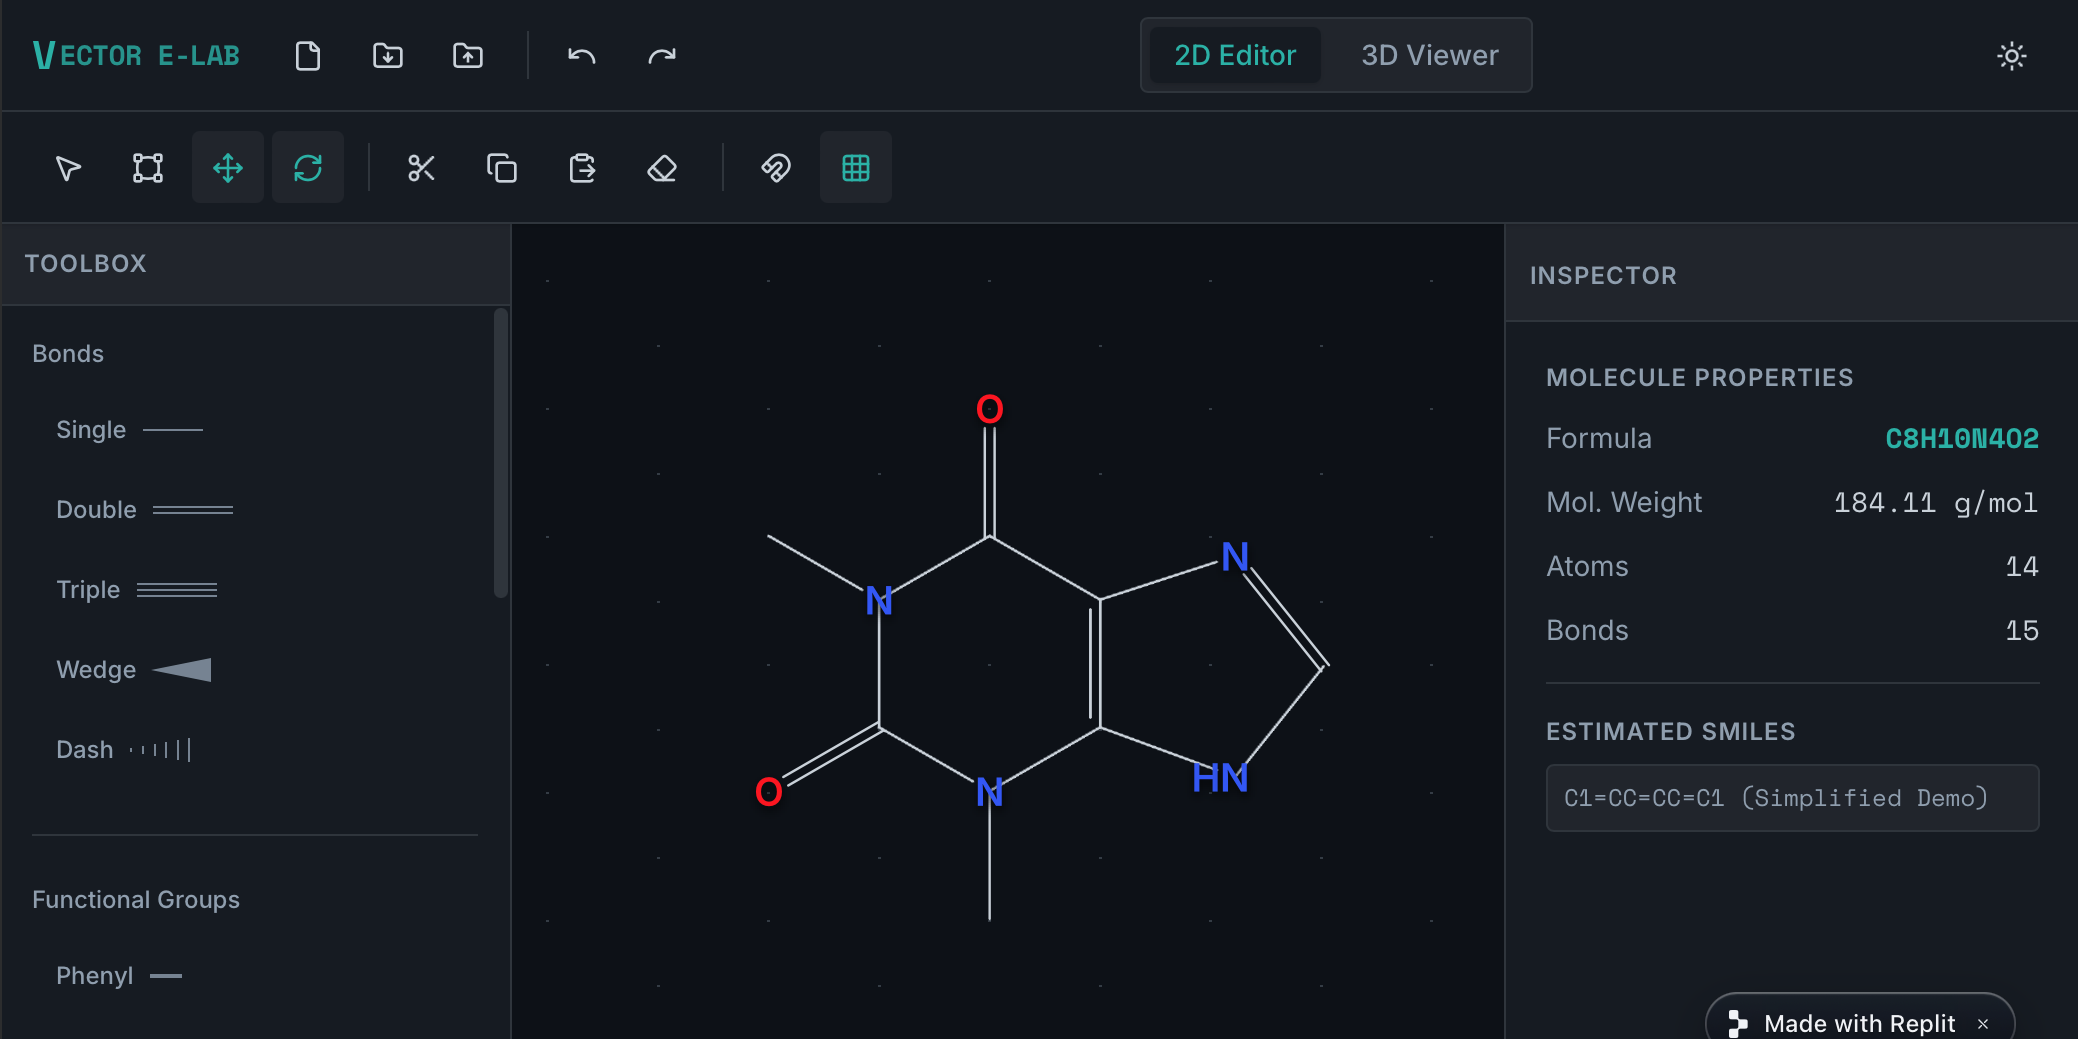
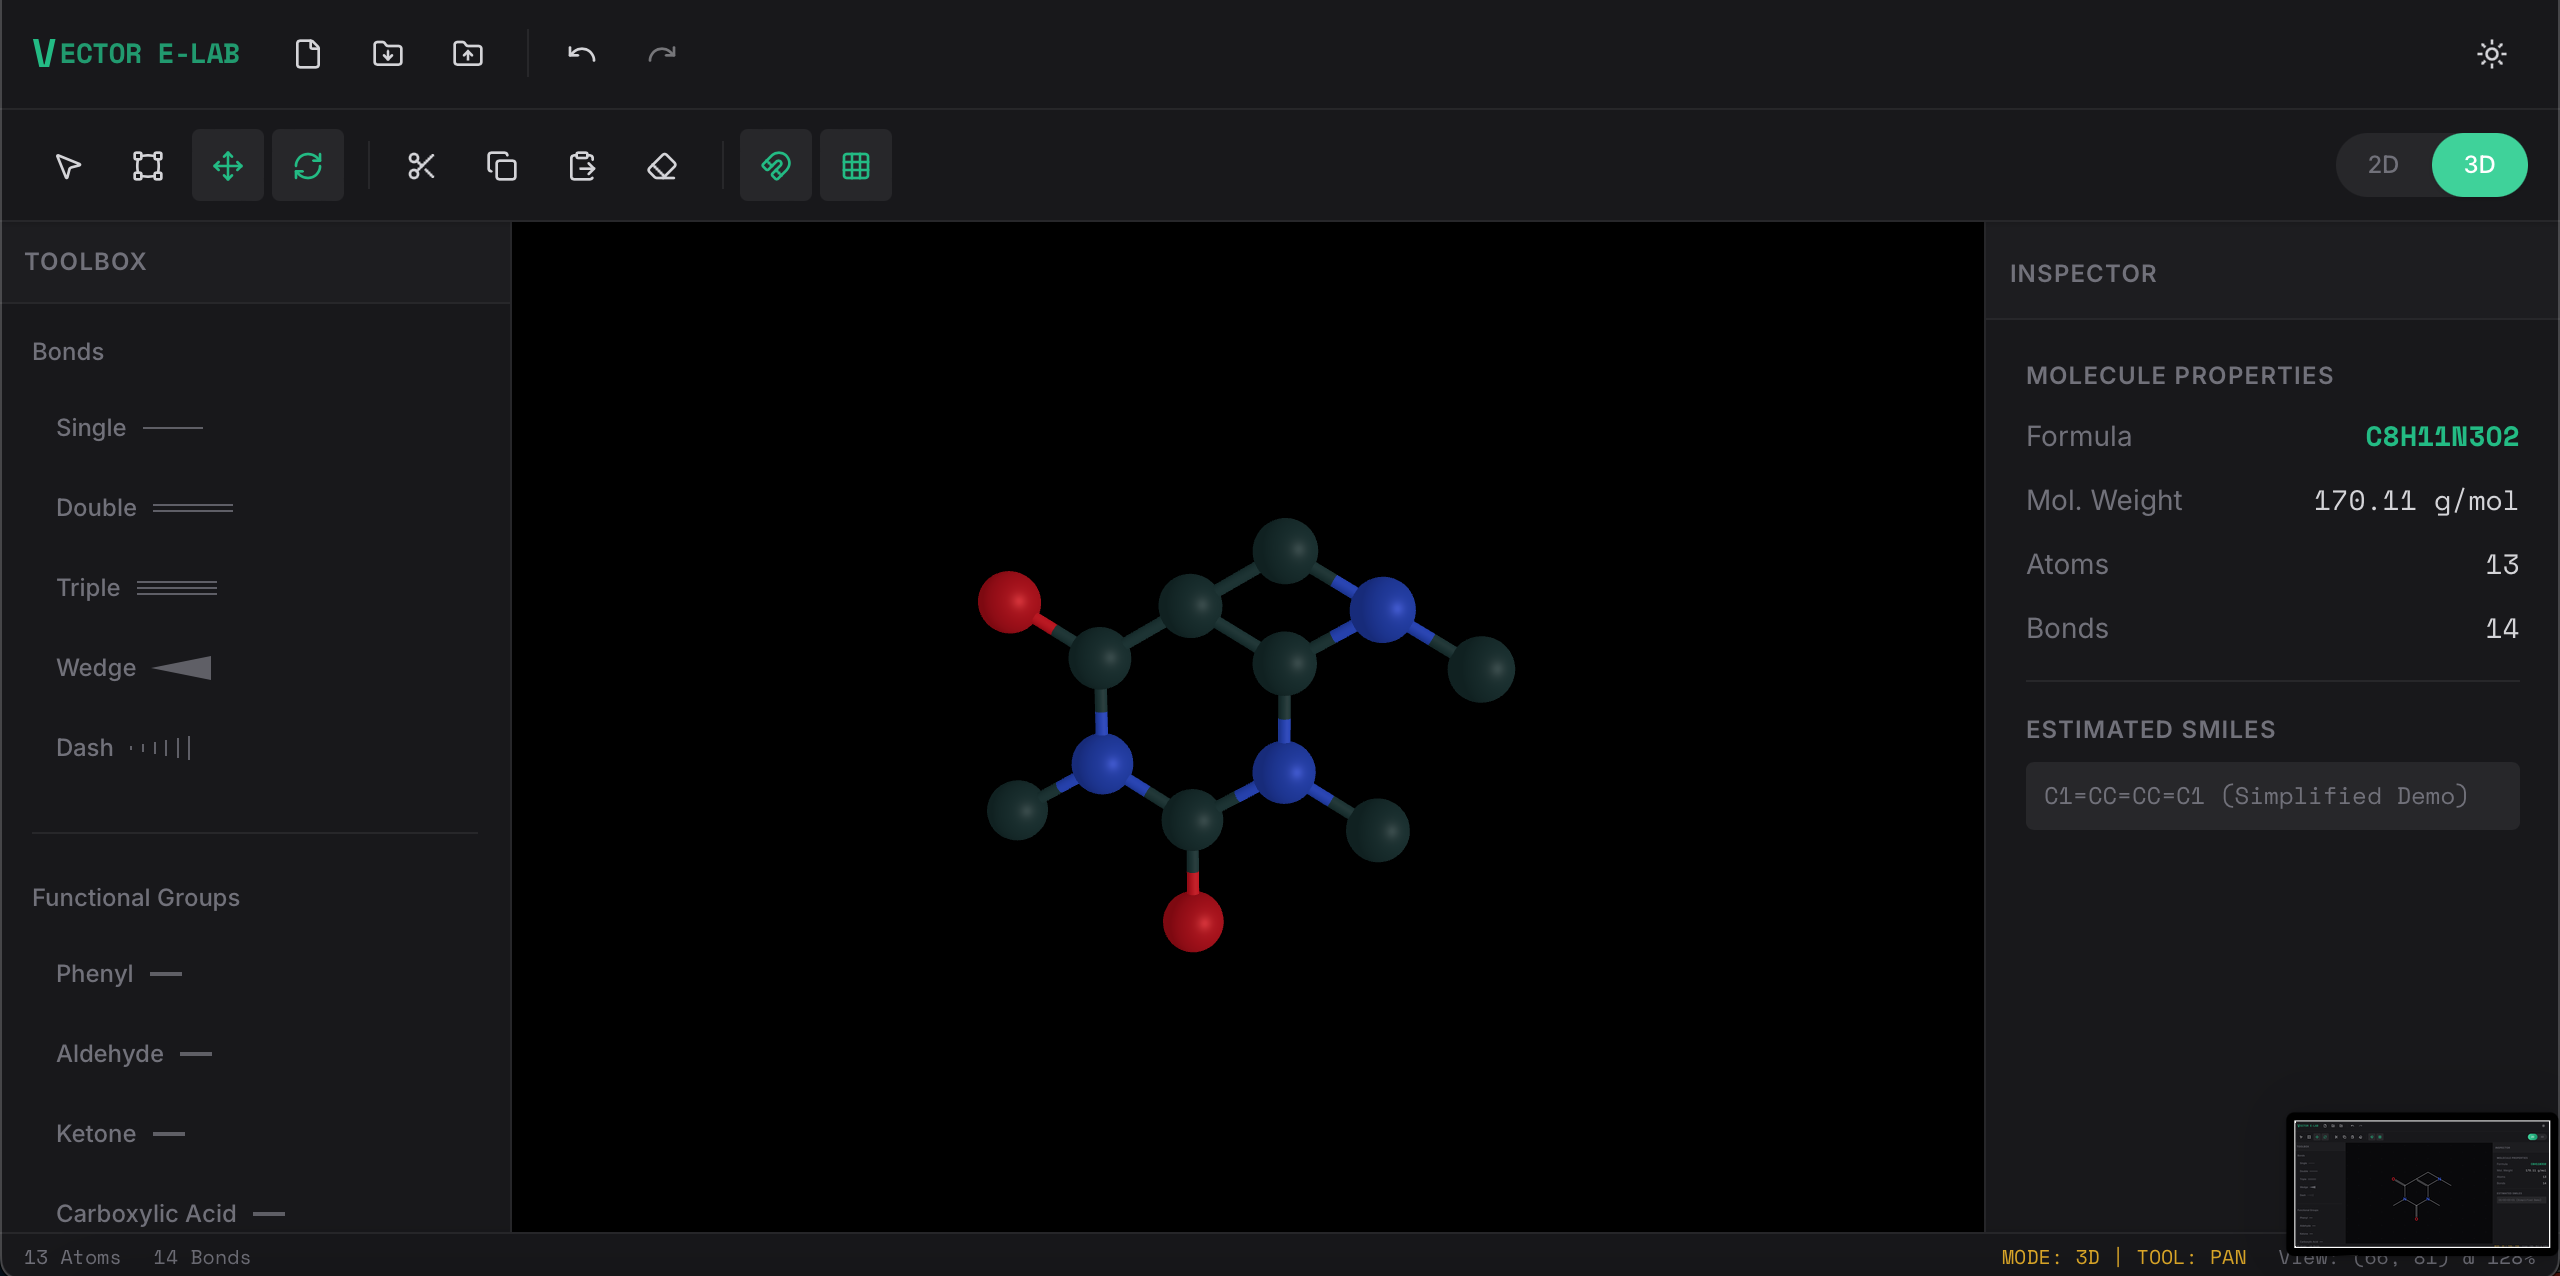
changed project preview section

diff --git a/src/components/sectionProjects.jsx b/src/components/sectionProjects.jsx
@@ -11,24 +11,28 @@ const projectsData = [
   {
     title: 'Langua',
     subtitle: 'Language Tutoring Platform',
+    body: 'A full-stack platform designed to connect language learners with structured educational content and instructors. I designed and developed the application architecture, user experience, authentication, database layer, and dynamic course system.',
     thumbnail: languaScreenshot,
     link: 'https://lang-ua.vercel.app/',
   },
   {
     title: 'Vector E-Lab',
     subtitle: 'Interactive Chemistry Tool',
+    body: 'An interactive chemistry application for constructing and visualizing molecular structures. The project required custom graphical logic for molecular representation, atom positioning, structural formulas, and switching between different visualization modes.',
     thumbnail: vectorScreenshot,
     link: 'https://e-lab-beta.vercel.app',
   },
   {
     title: 'MIO Connect',
     subtitle: 'Prosthetic Configuration Software',
+    body: 'A desktop application for configuring and communicating with experimental myoelectric prosthetic hardware. The project combines software development with embedded hardware, including serial communication, microcontrollers, EMG input, motor control, and a desktop configuration interface.',
     thumbnail: mioScreenshot,
     link: 'https://lang-ua.vercel.app/',
   },
   {
     title: 'Peak Fitness',
     subtitle: 'Community Fitness Application',
+    body: 'A mobile application concept centered around community-driven fitness, activity tracking, and social interaction. The project explores mobile-first product design, authentication, user profiles, and community features.',
     thumbnail: peakScreenshot,
     link: 'https://github.com/a-shchebelskyy/Peak-Fitness',
   },
@@ -39,48 +43,62 @@ const Projects = () => {
   const { t } = useTranslation();
   const [isModalOpen, setIsModalOpen] = useState(false);
 
-  // const changeLanguage = (lng) => {
-  //   t.changeLanguage(lng);
-  // };
+  // Store the ID of the currently open item (null means all are closed)
+  const [openId, setOpenId] = useState(0);
+
+  // Toggle open/close state based on item clicks
+  const handleToggle = (id) => {
+    setOpenId(openId === id ? 0 : id);
+  };
 
   return (
     <main className="main" id="projects">
       <h2 className='subtitle'>
         {t("projects")}
       </h2>
-      <div className="projects-row">
-        {projectsData.map(( project, index ) => (
-          <a className="project-card" href={project.link} target="_blank">
-            <img src={project.thumbnail} className="project-thumb" />
-            <p className="project-title">{t("project_data." + index + ".title")}</p>
-            <p className="project-subtitle">{t("project_data." + index + ".subtitle")}</p>
-          </a>
-        ))}
+      <div className="accordion-row">
+        {projectsData.map((item, index) => {
+        const isOpen = openId === index;
+        
+        return (
+          <div key={index} className="accordion-item">
+            {/* Accordion Header / Trigger Button */}
+            <button
+              onClick={() => handleToggle(index)}
+              className="accordion-button"
+            >
+              <span className="text-sideways">{item.title}</span>
+            </button>
+
+            {/* Accordion Content wrapper with smooth width transition */}
+            <div
+              className={`accordion-content ${
+                isOpen ? 'accordion-open' : 'accordion-closed'
+              }`}
+            >
+              <div className="overflow">
+                <div className="accordion-text">
+                  <div className="accordion-p">
+                    <p className="accordion-subtitle">{item.subtitle}</p>
+                    <p className="accordion-body">{item.body}</p>
+                  </div>
+                  <a className="link-arrow" href={item.link} target="_blank">View Project →</a>
+                </div>
+                <img
+                  src={item.thumbnail}
+                  className="project-thumb"
+                />
+              </div>
+            </div>
+          </div>
+        );
+      })}
       </div>
       <div className="space-y-3">
         <a className="link-arrow" href="https://github.com/a-shchebelskyy/" target="_blank">
           <p>{t("projects_more")} →</p>
         </a>
       </div>
-      <Modal 
-        isOpen={isModalOpen} 
-        onClose={() => setIsModalOpen(false)} 
-        title="Langua"
-        subtitle="Language Tutoring Platform"
-        p1="A full-stack platform designed to connect language learners with structured educational content and instructors."
-        p2="I designed and developed the application architecture, user experience, authentication, database layer, and dynamic course system."
-
-      >
-        {/* Footer Actions */}
-        <div className="flex justify-end gap-3 mt-6">
-          <button 
-            onClick={() => setIsModalOpen(false)}
-            className="link-arrow"
-          >
-            View Project →
-          </button>
-        </div>
-      </Modal>
     </main>
   )
 }

diff --git a/src/index.css b/src/index.css
@@ -161,6 +161,54 @@ html {
   @apply flex flex-row w-full items-center justify-between space-x-6;
 }
 
+.accordion-row {
+  @apply flex flex-row w-full items-center max-h-screen space-x-2;
+}
+
+.accordion-item {
+  @apply flex flex-row shrink max-w-full;
+}
+
+.text-sideways {
+  @apply flex mb-3 inline-block -rotate-90 w-10 whitespace-nowrap;
+}
+
+.accordion-button {
+  @apply flex flex-col h-full w-[64px] h-[396px] justify-end items-center px-3 py-6 rounded-l-xl text-xl text-left font-medium text-slate-800 bg-white;
+}
+
+.accordion-content {
+  @apply flex max-h-[396px] p-6 flex-row rounded-r-xl bg-white;
+}
+
+.accordion-open {
+  @apply w-full space-x-3 transition-all duration-1000 ease-in-out;
+}
+
+.accordion-closed {
+  @apply w-1;
+}
+
+.overflow {
+  @apply flex flex-row items-start justify-between overflow-hidden space-x-4;
+}
+
+.accordion-text {
+  @apply flex flex-col h-full justify-between min-w-[296px] text-slate-600;
+}
+
+.accordion-subtitle {
+  @apply text-lg;
+}
+
+.accordion-body {
+  @apply text-sm;
+}
+
+.accordion-p {
+  @apply flex flex-col text-sm space-y-2;
+}
+
 .project-card {
   @apply flex flex-col w-full h-[196px] rounded-xl hover:scale-90 transition-transform duration-500 ease-in-out;
 }
@@ -174,7 +222,7 @@ html {
 }
 
 .project-thumb {
-  @apply rounded-2xl mb-2;
+  @apply rounded-2xl min-h-[192px] min-w-[396px];
 }
 
 .modal {

diff --git a/src/components/navbar.tsx b/src/components/navbar.tsx
@@ -30,7 +30,7 @@ const Navbar = () => {
               height="20"
             />
           </a>
-          <a className="button-circle" href="https://github.com/a-shchebelskyy/" target="_blank">
+          <a className="button-circle" href="https://www.linkedin.com/in/alex-shchebelskyy/" target="_blank">
             <img
               src={linkedin}
               width="20"

diff --git a/src/components/footer.tsx b/src/components/footer.tsx
@@ -41,7 +41,7 @@ const Footer = () => {
             GitHub
           </a>
           <p>·</p> 
-          <a className="footer-link" href="https://github.com/a-shchebelskyy/" target="_blank">
+          <a className="footer-link" href="https://www.linkedin.com/in/alex-shchebelskyy/" target="_blank">
             LinkedIn
           </a>
         </div>
